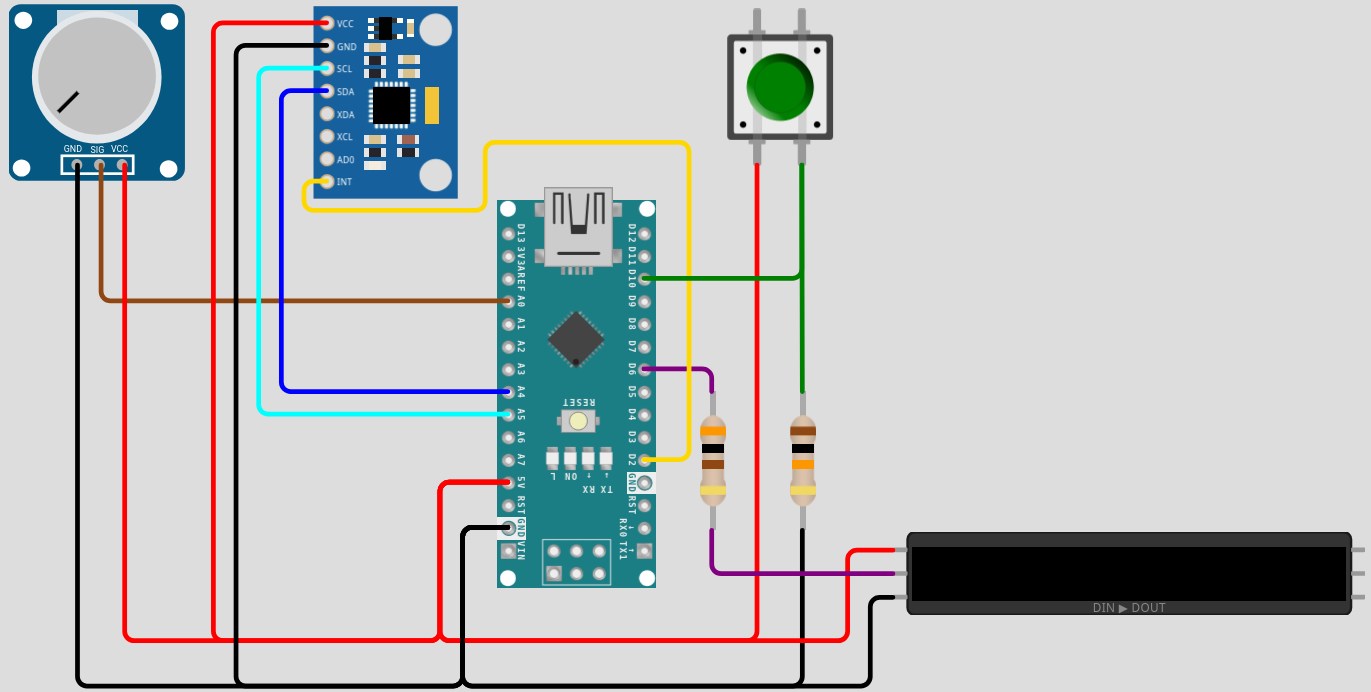
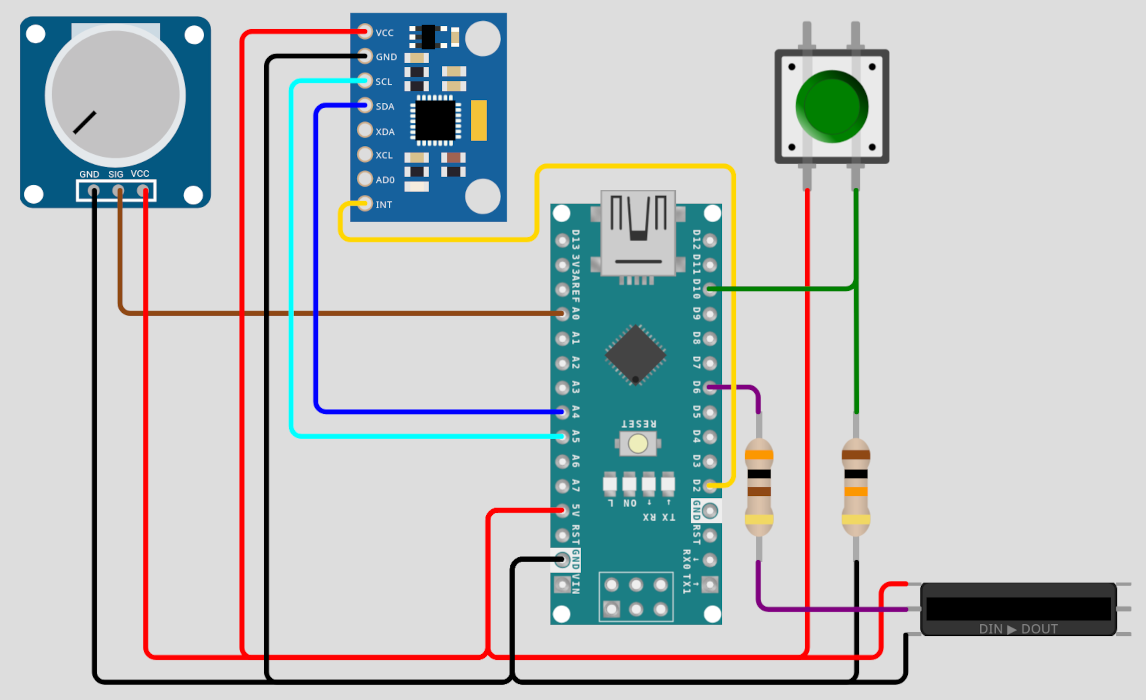
Update README and add circuit diagram

diff --git a/README.md b/README.md
@@ -1,17 +1,20 @@
 
 # Compass Lantern
 
-> Arduino compass lantern: IMU-driven LED ring always illuminates the same absolute direction.
+A lantern that uses an IMU (Inertial Measurement Unit) to track its own orientation and drives a circular LED strip such that the illuminated segment always points in the same absolute direction – its *bearing*. Like a compass needle made of light. Rotate the lantern casing however you like; the glowing arc stays fixed in space.
 
-A lantern that uses an IMU (Inertial Measurement Unit) to track its own orientation and drives a circular LED strip such that the illuminated segment always points in the same absolute direction — like a compass needle made of light. Rotate the lantern casing however you like; the glowing arc stays fixed in space.
+## Workflow
+The lantern has three distinct states after power-up:
 
----
+1. *Uncalibrated state*: On power-up the lantern has no bearing. It signals this by glowing dimly with irregular bright flashes.
+2. *Calibration mode*: A button press enters calibration mode. The potentiometer adjusts the target bearing, visible as a single purple LED tracking the current heading. A second button press confirms the bearing and enters working mode.
+3. *Working mode*: The lantern illuminates a soft arc of white LEDs locked to the configured bearing. The arc compensates for rotation automatically. The button and potentiometer have no further function until the next power-up.
 
-## How It Works
+## Technical background
 
 An IMU (MPU-6050) continuously measures the lantern's yaw angle relative to its starting orientation. The Arduino uses this heading data to calculate which LEDs on the ring need to be lit so that the illuminated point always faces the same world direction. As the lantern is rotated, the active LEDs shift around the ring to compensate, keeping the light "locked" to a fixed bearing.
 
----
+**Limitations** – The current version (using an MPU-6050) can only identify its position relative to the position at power-up. It cannot identify its absolute position on earth. Therefore, the bearing needs to be configured after each power-up or restart.
 
 ## Hardware
 
@@ -19,16 +22,17 @@ An IMU (MPU-6050) continuously measures the lantern's yaw angle relative to its 
 |---|---|---|
 | Microcontroller | Arduino Nano / Uno | Both use the same pins for communication protocols (e.g. I2C with IMU). |
 | IMU | MPU-6050 *or* <br> BNO055 | Currently used by implementation (6-axis). <br> Can read magnetic field for absolute orientation (9-axis). |
-| LED Strip | WS2812B stripe | NeoPixel-compatible |
+| LED Strip | WS2812B strip | NeoPixel-compatible |
+
+**Additional components**: Potentiometer, Button, 300-400Ω Resistor, 10kΩ Resistor
 
 ### Wiring
 
 ![Circuit Diagram](circuit/diagram.png)
 
 ### Possible optimizations
-- Do not source the LED stripe's Vcc from the Arduino but use a seperate source to enable larger ampere supply. This would also prevent the Arduino from heating up due to a high amount of current running through its power regulator.
-- Use a 1000 µF / 6.3 V capacitor connected to Vcc and GND of LED ground to prevent surges in power supply.
----
+- Do not source the LED strip's Vcc from the Arduino but use a separate source to enable larger ampere supply. This protects the Arduino from heating up due to a high amount of current running through its power regulator.
+- Use a 1000 µF / 6.3 V capacitor connected to Vcc and GND of LED to prevent surges in power supply.
 
 ## Software
 
@@ -36,5 +40,34 @@ An IMU (MPU-6050) continuously measures the lantern's yaw angle relative to its 
 
 Using PlatformIO should install all used libraries automatically.
 
----
+If you want to build it using another IDE add the following libraries:
+- **I2CDEV MPU6050** https://github.com/pkourany/I2CDEV_MPU6050
+- **Adafruit NeoPixel** https://github.com/adafruit/Adafruit_NeoPixel
+- **elapsedMillis** https://github.com/pfeerick/elapsedMillis
 
+
+## Getting Started
+
+1. **Wire up** the hardware according to the schematic in `circuit/diagram.png`.
+2. **Configure** the constants at the top of `main.cpp`:
+   - `NUM_PIXELS` — number of LEDs on your ring
+   - (Optional) Pins for IMU-interrupt, button, and potentiometer can be changed from the preconfiguration used in the diagram.
+3. (Optional) **Calibrate IMU** using a calibration sketch to determine gyro- and acceleration sensor offsets. They can be set at the top of `main.cpp`.
+   - e.g. https://github.com/blinkmaker/Improved-MPU6050-calibration
+   - Each MPU-6050 is slightly different after manufacturing. The calibration is not necessary to create a working lantern. But it can improve the accuracy and start-up time of the IMU.
+4. **Build and upload project**.
+
+## Known Issues
+
+**Arduino freezes during runtime** — The LED strip will remain lit but it will not compensate movement of the lantern anymore.  
+A watchdog is not a suitable solution for this problem because restarting the Arduino would require recalibration of the bearing.  
+A guard against an MPU FIFO overflow is already in place. The FIFO should not be the problem.
+
+## Further Development
+**Get absolute position using magnetic field sensor** — Use a **BNO055** (or another 9-axis IMU) to get an absolute position after power-up. The bearing could then be stored outside the Arduino and read after each restart. This would remove the necessary calibration after start-up, enabling a nicer user experience and allowing the use of a watchdog timer to get rid of the freeze problem.
+
+**Fix freeze-up problem** — The current code has a debug output on the serial monitor that writes the measured yaw for every second. This can be used to see how long it takes the Arduino to freeze up. The longest runtime is around 10 minutes. Possible approaches to this problem:
+   - Use refactored code on existing hardware to reduce computational load on Arduino.
+   - Use circuit optimizations discussed above to reduce physical load on Arduino.
+   - Debug memory usage of Arduino to determine why it freezes.
+   - Use more powerful microcontroller.
